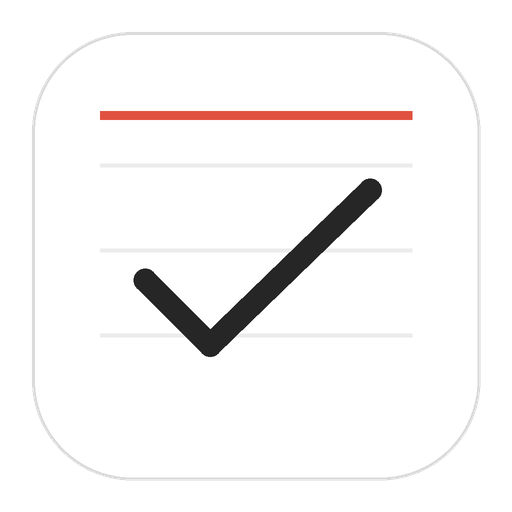
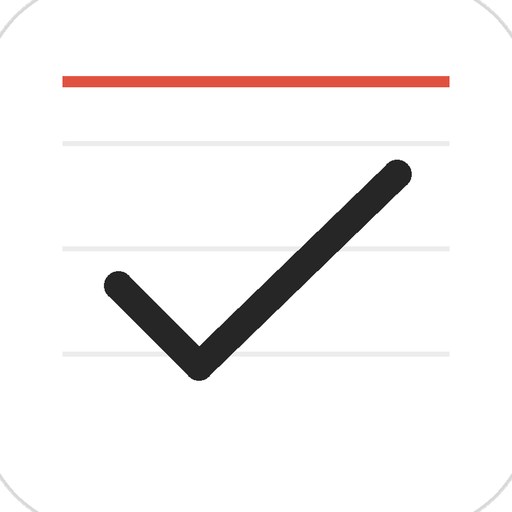
Add files via upload

diff --git a/index.html b/index.html
@@ -6,9 +6,10 @@
   <title>Tagwerk</title>
   <link rel="manifest" href="manifest.webmanifest">
   <link rel="icon" href="icon-192.png">
-  <link rel="apple-touch-icon" href="icon-192.png">
+  <link rel="apple-touch-icon" href="apple-touch-icon.png">
   <meta name="theme-color" content="#ffffff">
   <meta name="apple-mobile-web-app-capable" content="yes">
+  <meta name="apple-mobile-web-app-title" content="Tagwerk">
   <style>
 /* Tagwerk – Wochenplaner im Stil eines linierten Papierblatts. Farben nur über Variablen. */
 @font-face {
